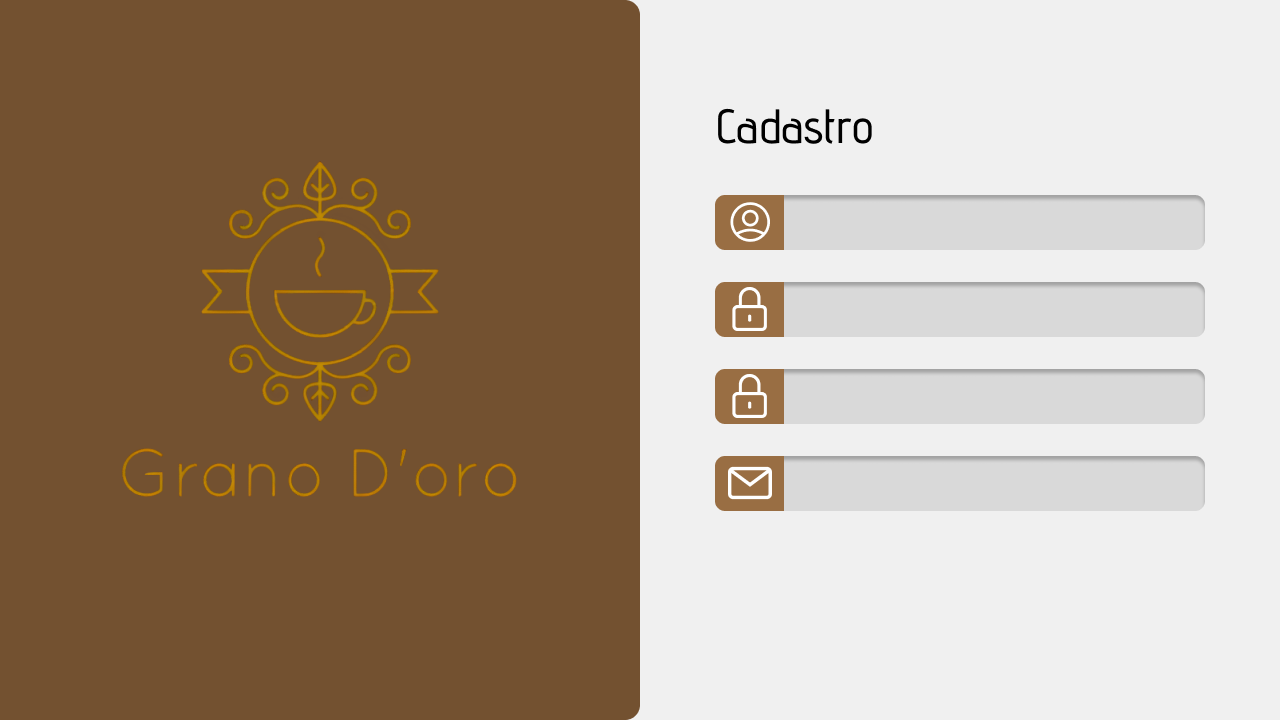
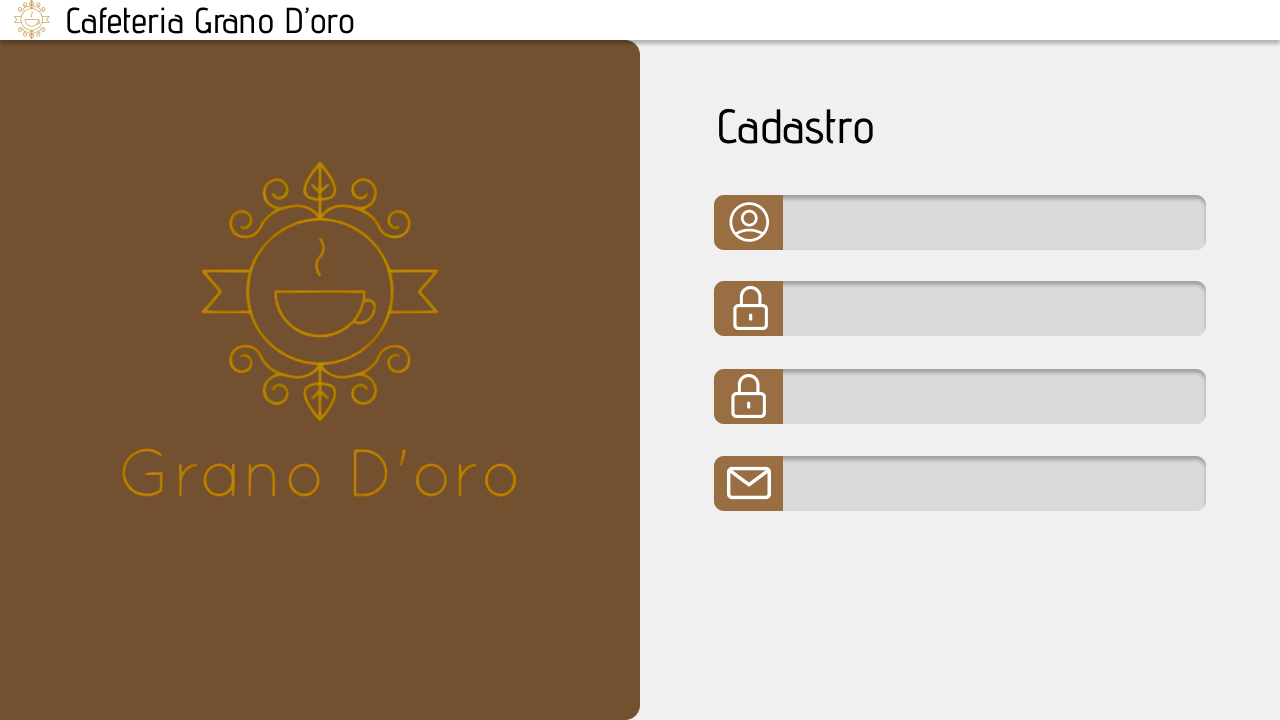
UI mais bonita

diff --git a/Grano-Doro/src/Telas/Login.java b/Grano-Doro/src/Telas/Login.java
@@ -12,6 +12,8 @@ import java.awt.GridLayout;
 import javax.swing.border.LineBorder;
 import javax.swing.JLabel;
 import java.awt.Font;
+import java.awt.Frame;
+
 import javax.swing.SwingConstants;
 import javax.swing.JTextField;
 import javax.swing.JPasswordField;
@@ -36,6 +38,10 @@ public class Login extends JFrame {
 	private JButton botaoLogar;
 	private JLabel labelCadastrar;
 	private JLabel labelSublinha;
+	private JLabel lblMinimizar;
+	private JLabel lblFechar;
+	private JLabel lblVoltar;
+	private JLabel fundo;
 
 	/**
 	 * Launch the application.
@@ -57,6 +63,8 @@ public class Login extends JFrame {
 	 * Create the frame.
 	 */
 	public Login() {
+		setResizable(false);
+		setUndecorated(true);
 		setDefaultCloseOperation(JFrame.EXIT_ON_CLOSE);
 		setBounds(100, 100, 1280, 720);
 		setLocationRelativeTo(null);
@@ -64,9 +72,9 @@ public class Login extends JFrame {
 		contentPane.setBorder(new EmptyBorder(0, 0, 0, 0));
 
 		setContentPane(contentPane);
-		contentPane.setLayout(null);
 		
 		areaUsuario = new JTextField();
+		areaUsuario.setBounds(147, 217, 418, 55);
 		areaUsuario.setBorder(null);
 		areaUsuario.setOpaque(false);
 		areaUsuario.addMouseListener(new MouseAdapter() {
@@ -76,14 +84,15 @@ public class Login extends JFrame {
 				areaUsuario.setForeground(Color.BLACK);
 			}
 		});
+		contentPane.setLayout(null);
 		areaUsuario.setFont(new Font("Segoe UI", Font.PLAIN, 18));
 		areaUsuario.setForeground(Color.LIGHT_GRAY);
 		areaUsuario.setText("Usuário");
-		areaUsuario.setBounds(146, 195, 421, 55);
 		contentPane.add(areaUsuario);
 		areaUsuario.setColumns(10);
 		
 		areaSenha = new JPasswordField("Senha");
+		areaSenha.setBounds(147, 335, 418, 55);
 		areaSenha.setBorder(null);
 		areaSenha.setOpaque(false);
 		areaSenha.addMouseListener(new MouseAdapter() {
@@ -95,10 +104,10 @@ public class Login extends JFrame {
 		});
 		areaSenha.setForeground(Color.LIGHT_GRAY);
 		areaSenha.setFont(new Font("Segoe UI", Font.PLAIN, 18));
-		areaSenha.setBounds(146, 312, 421, 55);
 		contentPane.add(areaSenha);
 		
 		botaoLogar = new JButton("");
+		botaoLogar.setBounds(120, 464, 410, 60);
 		botaoLogar.addMouseListener(new MouseAdapter() {
 			@Override
 			public void mouseEntered(MouseEvent e) {
@@ -116,11 +125,11 @@ public class Login extends JFrame {
 			public void actionPerformed(ActionEvent e) {
 			}
 		});
-		botaoLogar.setBounds(120, 457, 410, 60);
 		contentPane.add(botaoLogar);
 		botaoLogar.setBorderPainted(false);
 		
 		labelCadastrar = new JLabel("Novo Funcionário?");
+		labelCadastrar.setBounds(195, 550, 250, 69);
 		labelCadastrar.setHorizontalAlignment(SwingConstants.CENTER);
 		labelCadastrar.setFont(new Font("Segoe UI", Font.PLAIN, 28));
 		labelCadastrar.addMouseListener(new MouseAdapter() {
@@ -141,16 +150,71 @@ public class Login extends JFrame {
 				labelSublinha.setForeground(new Color(240, 240, 240));
 			}
 		});
-		labelCadastrar.setBounds(195, 531, 250, 69);
 		contentPane.add(labelCadastrar);
 		
 		labelSublinha = new JLabel("――――――――――――――");
+		labelSublinha.setBounds(195, 594, 280, 14);
 		labelSublinha.setForeground(new Color(240, 240, 240));
 		labelSublinha.setFont(new Font("Segoe UI", Font.BOLD, 18));
-		labelSublinha.setBounds(195, 575, 280, 14);
 		contentPane.add(labelSublinha);
 		
-		JLabel fundo = new JLabel("");
+		JLabel lblVoltar = new JLabel("");
+		lblVoltar.addMouseListener(new MouseAdapter() {
+			@Override
+			public void mouseClicked(MouseEvent e) {
+			}
+			@Override
+			public void mouseEntered(MouseEvent e) {
+				lblVoltar.setIcon(new ImageIcon(Login.class.getResource("/Imagens/bvoltarApertado.png")));
+			}
+			@Override
+			public void mouseExited(MouseEvent e) {
+				lblVoltar.setIcon(new ImageIcon(Login.class.getResource("/Imagens/bvoltar.png")));
+			}
+		});
+		lblVoltar.setIcon(new ImageIcon(Login.class.getResource("/Imagens/bvoltar.png")));
+		lblVoltar.setBounds(1071, 4, 32, 32);
+		contentPane.add(lblVoltar);
+		
+		JLabel lblMinimizar = new JLabel("");
+		lblMinimizar.addMouseListener(new MouseAdapter() {
+			@Override
+			public void mouseEntered(MouseEvent e) {
+				lblMinimizar.setIcon(new ImageIcon(Login.class.getResource("/Imagens/bminimizaApertado.png")));
+			}
+			@Override
+			public void mouseExited(MouseEvent e) {
+				lblMinimizar.setIcon(new ImageIcon(Login.class.getResource("/Imagens/bminimiza.png")));
+			}
+			@Override
+			public void mouseClicked(MouseEvent e) {
+				setState(Frame.ICONIFIED);
+			}
+		});
+		lblMinimizar.setIcon(new ImageIcon(Login.class.getResource("/Imagens/bminimiza.png")));
+		lblMinimizar.setBounds(1140, 4, 32, 32);
+		contentPane.add(lblMinimizar);
+		
+		JLabel lblFechar = new JLabel("");
+		lblFechar.addMouseListener(new MouseAdapter() {
+			@Override
+			public void mouseClicked(MouseEvent e) {
+				System.exit(0);
+			}
+			@Override
+			public void mouseEntered(MouseEvent e) {
+				lblFechar.setIcon(new ImageIcon(Login.class.getResource("/Imagens/bfecharApertado.png")));
+			}
+			@Override
+			public void mouseExited(MouseEvent e) {
+				lblFechar.setIcon(new ImageIcon(Login.class.getResource("/Imagens/bfechar.png")));
+			}
+		});
+		lblFechar.setIcon(new ImageIcon(Login.class.getResource("/Imagens/bfechar.png")));
+		lblFechar.setBounds(1207, 5, 32, 32);
+		contentPane.add(lblFechar);
+		
+		fundo = new JLabel("");
 		fundo.setIcon(new ImageIcon(Login.class.getResource("/Imagens/Login.png")));
 		fundo.setBounds(0, 0, 1280, 720);
 		contentPane.add(fundo);

diff --git a/Grano-Doro/src/Telas/Cadastro.java b/Grano-Doro/src/Telas/Cadastro.java
@@ -10,6 +10,8 @@ import javax.swing.JTextField;
 import javax.swing.JPasswordField;
 import javax.swing.JLabel;
 import java.awt.Font;
+import java.awt.Frame;
+
 import javax.swing.SwingConstants;
 import javax.swing.ImageIcon;
 import java.awt.event.ActionListener;
@@ -26,6 +28,9 @@ public class Cadastro extends JFrame {
 	private JPasswordField areaCadastrarSenha;
 	private JPasswordField areaRepetirSenha;
 	private JTextField areaEmail;
+	private JLabel lblVoltar;
+	private JLabel lblMinimizar;
+	private JLabel lblFechar;
 
 	/**
 	 * Launch the application.
@@ -47,6 +52,8 @@ public class Cadastro extends JFrame {
 	 * Create the frame.
 	 */
 	public Cadastro() {
+		setUndecorated(true);
+		setResizable(false);
 		setDefaultCloseOperation(JFrame.EXIT_ON_CLOSE);
 		setBounds(100, 100, 1280, 720);
 		setLocationRelativeTo(null);
@@ -55,6 +62,7 @@ public class Cadastro extends JFrame {
 
 		setContentPane(contentPane);
 		contentPane.setLayout(null);
+		
 		
 		areaCadastrarUsuario = new JTextField();
 		areaCadastrarUsuario.setBorder(null);
@@ -70,7 +78,7 @@ public class Cadastro extends JFrame {
 		areaCadastrarUsuario.setForeground(Color.LIGHT_GRAY);
 		areaCadastrarUsuario.setText("Usuário");
 		areaCadastrarUsuario.setFont(new Font("Segoe UI", Font.PLAIN, 18));
-		areaCadastrarUsuario.setBounds(785, 195, 419, 55);
+		areaCadastrarUsuario.setBounds(788, 195, 418, 55);
 		contentPane.add(areaCadastrarUsuario);
 		areaCadastrarUsuario.setColumns(10);
 		
@@ -86,7 +94,7 @@ public class Cadastro extends JFrame {
 		});
 		areaCadastrarSenha.setForeground(Color.LIGHT_GRAY);
 		areaCadastrarSenha.setFont(new Font("Segoe UI", Font.PLAIN, 18));
-		areaCadastrarSenha.setBounds(785, 282, 419, 55);
+		areaCadastrarSenha.setBounds(788, 281, 418, 55);
 		contentPane.add(areaCadastrarSenha);
 		
 		areaRepetirSenha = new JPasswordField("Repita a Senha");
@@ -101,7 +109,7 @@ public class Cadastro extends JFrame {
 		});
 		areaRepetirSenha.setForeground(Color.LIGHT_GRAY);
 		areaRepetirSenha.setFont(new Font("Segoe UI", Font.PLAIN, 18));
-		areaRepetirSenha.setBounds(785, 369, 419, 55);
+		areaRepetirSenha.setBounds(788, 369, 418, 55);
 		contentPane.add(areaRepetirSenha);
 		
 		areaEmail = new JTextField();
@@ -117,7 +125,7 @@ public class Cadastro extends JFrame {
 		areaEmail.setForeground(Color.LIGHT_GRAY);
 		areaEmail.setText("E-mail");
 		areaEmail.setFont(new Font("Segoe UI", Font.PLAIN, 18));
-		areaEmail.setBounds(785, 456, 419, 55);
+		areaEmail.setBounds(788, 456, 418, 55);
 		areaEmail.setColumns(10);
 		contentPane.add(areaEmail);
 		
@@ -140,6 +148,64 @@ public class Cadastro extends JFrame {
 		});
 		botaoCadastrar.setBounds(760, 543, 410, 60);
 		contentPane.add(botaoCadastrar);
+		
+		JLabel lblVoltar = new JLabel("");
+		lblVoltar.addMouseListener(new MouseAdapter() {
+			@Override
+			public void mouseClicked(MouseEvent e) {
+			}
+			@Override
+			public void mouseEntered(MouseEvent e) {
+				lblVoltar.setIcon(new ImageIcon(Login.class.getResource("/Imagens/bvoltarApertado.png")));
+			}
+			@Override
+			public void mouseExited(MouseEvent e) {
+				lblVoltar.setIcon(new ImageIcon(Login.class.getResource("/Imagens/bvoltar.png")));
+			}
+		});
+		lblVoltar.setIcon(new ImageIcon(Login.class.getResource("/Imagens/bvoltar.png")));
+		lblVoltar.setBounds(1071, 4, 32, 32);
+		contentPane.add(lblVoltar);
+		
+		JLabel lblMinimizar = new JLabel("");
+		lblMinimizar.addMouseListener(new MouseAdapter() {
+			@Override
+			public void mouseEntered(MouseEvent e) {
+				lblMinimizar.setIcon(new ImageIcon(Login.class.getResource("/Imagens/bminimizaApertado.png")));
+			}
+			@Override
+			public void mouseExited(MouseEvent e) {
+				lblMinimizar.setIcon(new ImageIcon(Login.class.getResource("/Imagens/bminimiza.png")));
+			}
+			@Override
+			public void mouseClicked(MouseEvent e) {
+				setState(Frame.ICONIFIED);
+			}
+		});
+		lblMinimizar.setIcon(new ImageIcon(Login.class.getResource("/Imagens/bminimiza.png")));
+		lblMinimizar.setBounds(1140, 4, 32, 32);
+		contentPane.add(lblMinimizar);
+		
+		JLabel lblFechar = new JLabel("");
+		lblFechar.addMouseListener(new MouseAdapter() {
+			@Override
+			public void mouseClicked(MouseEvent e) {
+				System.exit(0);
+			}
+			@Override
+			public void mouseEntered(MouseEvent e) {
+				lblFechar.setIcon(new ImageIcon(Login.class.getResource("/Imagens/bfecharApertado.png")));
+			}
+			@Override
+			public void mouseExited(MouseEvent e) {
+				lblFechar.setIcon(new ImageIcon(Login.class.getResource("/Imagens/bfechar.png")));
+			}
+		});
+		lblFechar.setIcon(new ImageIcon(Login.class.getResource("/Imagens/bfechar.png")));
+		lblFechar.setBounds(1207, 5, 32, 32);
+		contentPane.add(lblFechar);
+		
+		
 		
 		JLabel fundo = new JLabel("");
 		fundo.setIcon(new ImageIcon(Cadastro.class.getResource("/Imagens/Cadastro.png")));

diff --git a/Grano-Doro/src/Telas/Principal.java b/Grano-Doro/src/Telas/Principal.java
@@ -1,6 +1,7 @@
 package Telas;
 
 import java.awt.EventQueue;
+import java.awt.Frame;
 
 import javax.swing.JFrame;
 import javax.swing.JPanel;
@@ -13,6 +14,8 @@ import java.awt.event.MouseAdapter;
 import java.awt.event.MouseEvent;
 import javax.swing.JMenuBar;
 import javax.swing.SwingConstants;
+import javax.swing.JLabel;
+import javax.swing.ImageIcon;
 
 public class Principal extends JFrame {
 
@@ -40,6 +43,7 @@ public class Principal extends JFrame {
 	 * Create the frame.
 	 */
 	public Principal() {
+		setUndecorated(true);
 		setDefaultCloseOperation(JFrame.EXIT_ON_CLOSE);
 		setBounds(100, 100, 1280, 720);
 		setLocationRelativeTo(null);
@@ -50,7 +54,7 @@ public class Principal extends JFrame {
 		contentPane.setLayout(null);
 		
 		JMenuBar menuCafe = new JMenuBar();
-		menuCafe.setBounds(0, 0, 1264, 50);
+		menuCafe.setBounds(0, 670, 1264, 50);
 		contentPane.add(menuCafe);
 		
 		JMenuItem menuCaixa = new JMenuItem("Caixa");
@@ -69,6 +73,67 @@ public class Principal extends JFrame {
 		
 		JMenuItem menuSair = new JMenuItem("Sair");
 		menuCafe.add(menuSair);
+		
+		JLabel lblVoltar = new JLabel("");
+		lblVoltar.addMouseListener(new MouseAdapter() {
+			@Override
+			public void mouseClicked(MouseEvent e) {
+			}
+			@Override
+			public void mouseEntered(MouseEvent e) {
+				lblVoltar.setIcon(new ImageIcon(Login.class.getResource("/Imagens/bvoltarApertado.png")));
+			}
+			@Override
+			public void mouseExited(MouseEvent e) {
+				lblVoltar.setIcon(new ImageIcon(Login.class.getResource("/Imagens/bvoltar.png")));
+			}
+		});
+		lblVoltar.setIcon(new ImageIcon(Login.class.getResource("/Imagens/bvoltar.png")));
+		lblVoltar.setBounds(1071, 4, 32, 32);
+		contentPane.add(lblVoltar);
+		
+		JLabel lblMinimizar = new JLabel("");
+		lblMinimizar.addMouseListener(new MouseAdapter() {
+			@Override
+			public void mouseEntered(MouseEvent e) {
+				lblMinimizar.setIcon(new ImageIcon(Login.class.getResource("/Imagens/bminimizaApertado.png")));
+			}
+			@Override
+			public void mouseExited(MouseEvent e) {
+				lblMinimizar.setIcon(new ImageIcon(Login.class.getResource("/Imagens/bminimiza.png")));
+			}
+			@Override
+			public void mouseClicked(MouseEvent e) {
+				setState(Frame.ICONIFIED);
+			}
+		});
+		lblMinimizar.setIcon(new ImageIcon(Login.class.getResource("/Imagens/bminimiza.png")));
+		lblMinimizar.setBounds(1140, 4, 32, 32);
+		contentPane.add(lblMinimizar);
+		
+		JLabel lblFechar = new JLabel("");
+		lblFechar.addMouseListener(new MouseAdapter() {
+			@Override
+			public void mouseClicked(MouseEvent e) {
+				System.exit(0);
+			}
+			@Override
+			public void mouseEntered(MouseEvent e) {
+				lblFechar.setIcon(new ImageIcon(Login.class.getResource("/Imagens/bfecharApertado.png")));
+			}
+			@Override
+			public void mouseExited(MouseEvent e) {
+				lblFechar.setIcon(new ImageIcon(Login.class.getResource("/Imagens/bfechar.png")));
+			}
+		});
+		lblFechar.setIcon(new ImageIcon(Login.class.getResource("/Imagens/bfechar.png")));
+		lblFechar.setBounds(1207, 5, 32, 32);
+		contentPane.add(lblFechar);
+		
+		JLabel fundo = new JLabel("");
+		fundo.setIcon(new ImageIcon(Principal.class.getResource("/Imagens/Principal.png")));
+		fundo.setBounds(0, 0, 1280, 720);
+		contentPane.add(fundo);
 	}
 	private static void addPopup(Component component, final JPopupMenu popup) {
 		component.addMouseListener(new MouseAdapter() {
